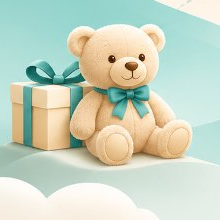
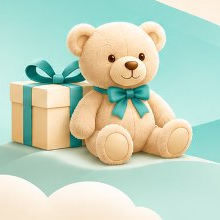
Update clean email background wallpaper and improve td background attribute for Gmail

diff --git a/backend/services/resendService.js b/backend/services/resendService.js
@@ -43,9 +43,9 @@ export async function sendOtpEmail({ toEmail, otp, name }) {
         <title>Your Voraeclat Verification Code</title>
       </head>
       <body style="margin: 0; padding: 0; background-color: #FFF8EE; font-family: -apple-system, BlinkMacSystemFont, 'Segoe UI', Roboto, Helvetica, Arial, sans-serif; color: #1e293b; -webkit-font-smoothing: antialiased;">
-        <table role="presentation" width="100%" border="0" cellspacing="0" cellpadding="0" style="background-color: #FFF8EE; background-image: url('https://www.voraeclat.online/email-toys-bg.jpg'); background-repeat: no-repeat; background-position: center top; background-size: cover; padding: 30px 12px 40px;">
+        <table role="presentation" width="100%" border="0" cellspacing="0" cellpadding="0" style="background-color: #FFF8EE;">
           <tr>
-            <td align="center">
+            <td align="center" background="https://www.voraeclat.online/email-toys-bg.jpg" style="background-color: #FFF8EE; background-image: url('https://www.voraeclat.online/email-toys-bg.jpg'); background-repeat: no-repeat; background-position: center top; background-size: cover; padding: 36px 12px 46px;">
               
               <!-- Outer Table with Integrated Toys & Scene Decorations -->
               <table role="presentation" border="0" cellspacing="0" cellpadding="0" style="max-width: 580px; width: 100%;">
